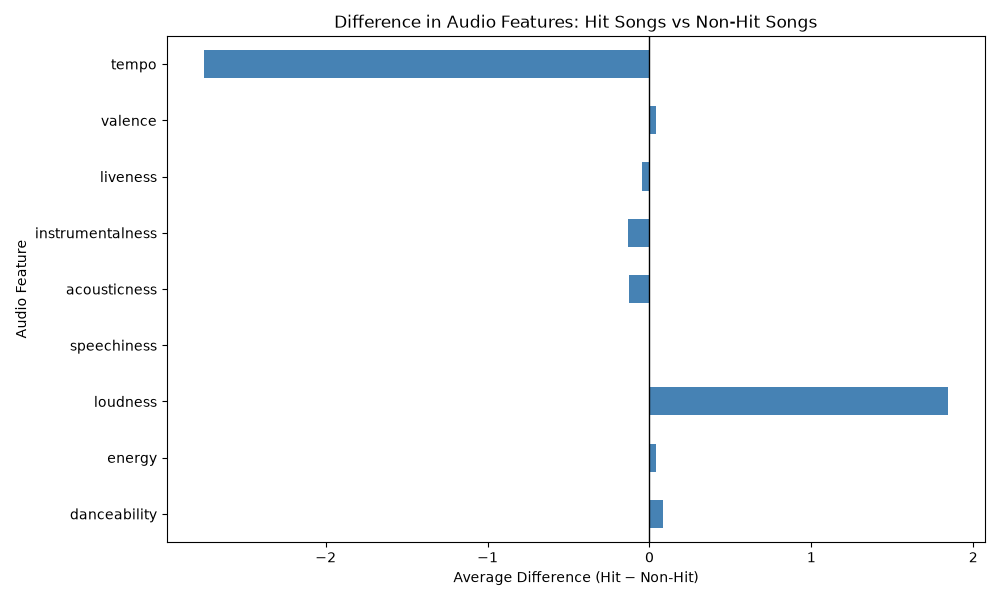
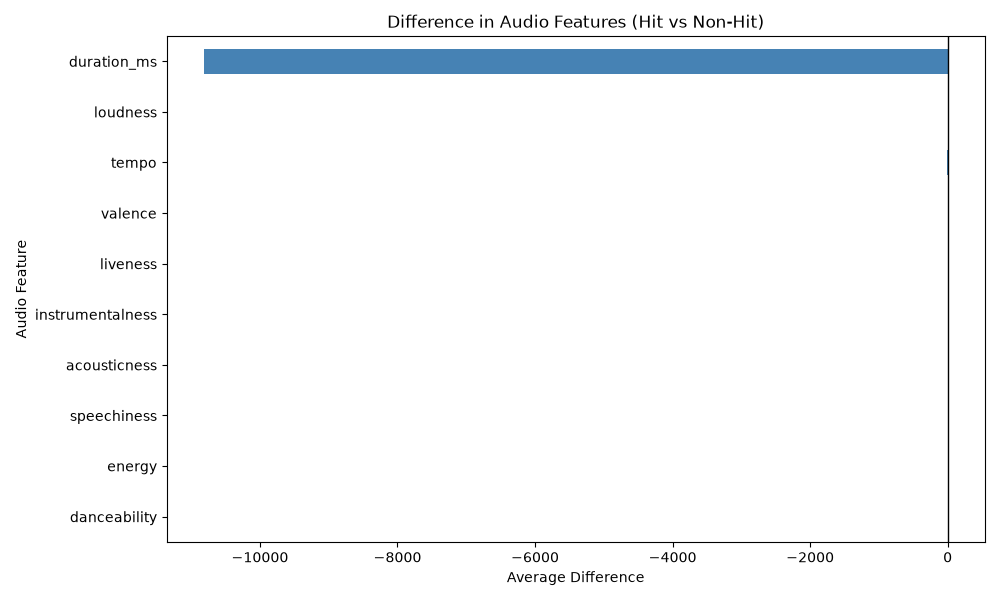
Refactor data pipeline by moving hit_song creation to cleaning stage

diff --git a/trackx_ml.py b/trackx_ml.py
@@ -1,0 +1,27 @@
+# ==========================================================
+# TRACKX 3.0
+# Spotify Hit Song Prediction using Machine Learning
+# ==========================================================
+
+import pandas as pd
+import numpy as np
+
+# Machine Learning Libraries
+from sklearn.model_selection import train_test_split
+
+
+# Load the cleaned Spotify dataset
+df = pd.read_csv('data/processed/spotify_cleaned.csv')
+
+#=================================
+#Dataset Validation
+#=================================
+print("\nDataset Shape:", df.shape)
+print("\nDataset Columns:", df.columns)
+print("\n first 5 rows of the dataset:\n", df.head())
+print("\n Missing Values in the dataset:\n", df.isnull().sum())
+
+audio_features = ['danceability', 'energy', 'loudness', , 'speechiness',
+                  'acousticness', 'instrumentalness', 'liveness', 'valence',
+                  'tempo']
+

diff --git a/clean_visualize.py b/clean_visualize.py
@@ -89,6 +89,15 @@ for col in columns:
 print("Outliers handled successfully.")
 
 # -----------------------------------------------------
+# Create Target Variable
+# -----------------------------------------------------
+
+df["hit_song"] = (df["popularity"] >= 80).astype(int)
+
+print("\nTarget variable 'hit_song' created successfully.")
+print(df["hit_song"].value_counts())
+
+# -----------------------------------------------------
 # Save Clean Dataset
 # -----------------------------------------------------
 

diff --git a/trackx_eda.py b/trackx_eda.py
@@ -159,10 +159,6 @@ plt.show()
 # Investigation 4 : Hit Song Feature Analysis
 # ==========================================================
 
-# Create Hit Song Label
-
-df["hit_song"] = np.where(df["popularity"] >= 80, 1, 0)
-
 print("\n========== HIT SONG COUNTS ==========\n")
 
 print(df["hit_song"].value_counts())
@@ -179,8 +175,7 @@ audio_features = [
     "liveness",
     "valence",
     "tempo",
-    "loudness",
-    "duration_ms"
+    "loudness"
 ]
 
 hit_song_features = (